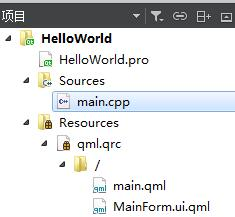
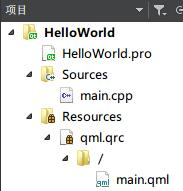
用 Qt 5.9.2 重写了创建项目的过程。增加的创建项目时的过程截图

Changed region(s): [[0.082, 0.2356, 1.0, 1.0], [0.0, 0.0, 1.0, 1.0], [0.5464, 0.0524, 0.6011, 0.0785]]

diff --git a/QmlBook 笔记/正式启程.md b/QmlBook 笔记/正式启程.md
@@ -2,15 +2,35 @@
 
 ## 安装 Qt 5 SDK
 
-Qt 开发一般使用官方提供的 IDE——Qt Creator。去官网下载http://download.qt.io/archive/qt/对应的版本安装。我下载的是qt-opensource-windows-x86-5.9.1.exe。安装的时候记得勾选对应的编译器。我安装时发现 Qt Creator 能感知我系统上已经安装好的 VS2015 自带的编译器，以为不需要勾选编译器了，结果不能失败 Qt 版本，所以不创建工程。所以还是得勾选一个编译器才行。
+Qt 开发一般使用官方提供的 IDE——Qt Creator。去官网下载http://download.qt.io/archive/qt/对应的版本安装。我下载的是qt-opensource-windows-x86-5.9.2.exe。安装的时候记得勾选对应的编译器。我安装时发现 Qt Creator 能感知我系统上已经安装好的 VS2015 自带的编译器，以为不需要勾选编译器了，结果不能识别 Qt 版本，所以不创建工程。所以还是得勾选一个编译器才行。
 
 还可以使用 VS2015 来开发 Qt 程序，不过需要先安装 Qt Creator，然后在 VS 上装一个插件，并配置好插件中的一个环境变量，让它指向 Qt Creator 安装目录下的编译器目录。
 
 ## Hello World
 
->   QmlBook 书上描述的 Hello World 由于版本的原因无法重现。下面是 Qt Creator 4.3.1 为我们创建的 Hello World 项目。Qt 版本为 5.9.1。
+>   QmlBook 书上描述的 Hello World 由于版本的原因无法重现。下面是 Qt Creator 4.4.1 为我们创建的 Hello World 项目。Qt 版本为 5.9.2。
 
-创建一个 Hello World 来测试一下。打开 Qt Creator。点击 文件-->新建文件或项目-->Qt Quick Application。输入项目名`HelloWorld`，后面的步骤默认就行。
+###创建 Qt Quick 项目
+
+创建一个 Hello World 来测试一下。打开 Qt Creator。点击 文件-->新建文件或项目。按照下面的步骤来。
+
+选择 QtQuick Application
+
+![选择 QtQuick Application](.images/选择QtQuick应用.jpg)
+
+填写项目名称，选择保存路径
+
+![填写项目名称，选择保存路径](.images/填写项目名.jpg)
+
+构建工具保持默认的 qmake 就行。
+
+选择兼容的最低 Qt 版本，去掉 ui.qml 文件
+
+![选择兼容的最低版本](.images/选择兼容的最低Qt版本.jpg)
+
+选择编译套件。编译套件里有编译、链接、调试等工具。由于我安装 Qt 时勾选了的 VS，所以选择 VS x64的编译器。
+
+![选择编译套件](.images/选择编译套件.jpg)
 
 可以看到 Qt Creator 为我们创建的项目结构如下：
 
@@ -44,7 +64,7 @@ int main(int argc, char *argv[])
 main.qml 是描述程序主窗口的 QML 代码文件。里面的内容如下：
 
 ```qml
-import QtQuick 2.6
+import QtQuick 2.8
 import QtQuick.Window 2.2
 
 Window {
@@ -53,33 +73,11 @@ Window {
     height: 480
     title: qsTr("Hello World")
 
-    MainForm {
+    MouseArea {
         anchors.fill: parent
-        mouseArea.onClicked: {
+        onClicked: {
             console.log(qsTr('Clicked on background. Text: "' + textEdit.text + '"'))
         }
-    }
-}
-
-```
-
-可以看到里面的 QML 代码设置了窗口的大小和标题，并添加了一个主要部件 MainForm。
-
-MainForm.ui.qml 是描述主窗口中主要部件 MainForm 的 QML 代码文件。在 IDE 左侧项目浏览中点击该文件会自动打开可视化编辑模式，可以对界面进行可视化编辑。看来设计界面主要的工作在这里进行。切换到编辑模式可以看到里面的代码如下：
-
-```qml
-import QtQuick 2.6
-
-Rectangle {
-    property alias mouseArea: mouseArea
-    property alias textEdit: textEdit
-
-    width: 360
-    height: 360
-
-    MouseArea {
-        id: mouseArea
-        anchors.fill: parent
     }
 
     TextEdit {
@@ -97,13 +95,14 @@ Rectangle {
         }
     }
 }
+
 ```
+
+可以看到里面的 QML 代码设置了窗口的大小和标题，并添加了一个`MouseArea`和`TextEdit`元素。
 
 按 `ctrl+R` 构建并运行程序，程序运行结果如下：
 
 ![HelloWorld 运行结果](./.images/HelloWorld 运行结果.jpg)
-
-目前可以看出的是 main.qml 负责描述主程序窗口的边框和标题，至于窗口内其他内容由 MainForm.ui.qml 描述。
 
 ###Qt Quick 程序的运行过程
 
@@ -119,27 +118,13 @@ Rectangle {
 qmlscene main.qml
 ```
 
-
-
 会弹出我们的 HelloWorld 窗口。这在 IDE 中运行是一样的。
 
-再执行：
-
-```shell
-qmlscene MainForm.ui.qml
-```
-
-也会弹出 HelloWorld 窗口，只是窗口好像变小了。
-
-#### 解释
-
-在 IDE 中和在命令行中运行 Qt Quick 有什么区别？
+### 在 IDE 中和在命令行中运行 Qt Quick 有什么区别？
 
 前面我们说了 Qt Quick 程序的运行过程是由一个叫做 QML 引擎的运行时加载初始的 QML 代码解释运行。在 IDE 中有个 main.cpp 文件，里面创建了一个 QML 引擎并加载相应的 QML 代码。而我们在命令中运行程序时是用的现成的引擎 `qmlscene` 手动加载 QML 代码。两者的过程是一致的。
 
-那为什么 `qmlscene` 加载两个不同的 qml 文件都可以运行呢？而且两次运行得到的窗口大小不一样呢？
-
-因为 `qmlscene` 规定要运行的程序必须有个窗口(window)才能运行，如果传入的 QML 代码中没有描述窗口，就由 `qmlscene` 自动创建一个默认窗口，并将传入的 QML 代码中的内容放入到该窗口中。main.qml 中定义了窗口，还定义了窗口的大小，所以不需要 `qmlscene` 提供窗口。而如果直接传入没有窗口描述 MainForm.ui.qml 文件，就由`qmlscene`提供一个默认大小的窗口。所以两次运行的窗口大小也不一样。
+另外， `qmlscene` 规定要运行的程序必须有个窗口(window)才能运行，如果传入的 QML 代码的根元素不是`Window`或通类型表示窗口的元素，就由 `qmlscene` 自动创建一个默认窗口，并将传入的 QML 代码中的内容放入到该窗口中。main.qml 中定义了窗口，还定义了窗口的大小，所以不需要 `qmlscene` 提供窗口。
 
 ## Qt 5 能做应用程序类型
 
